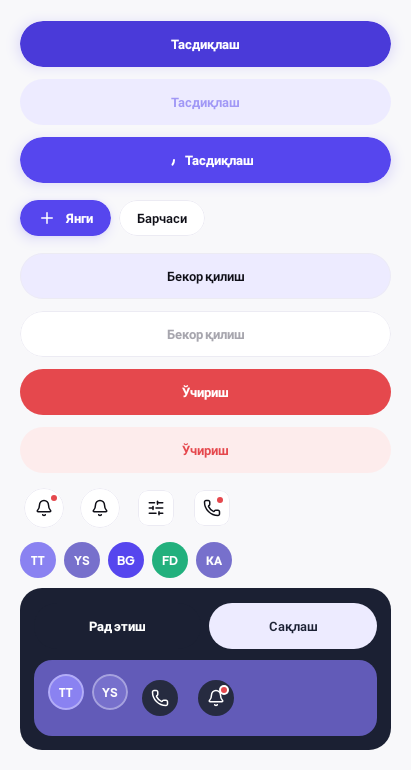
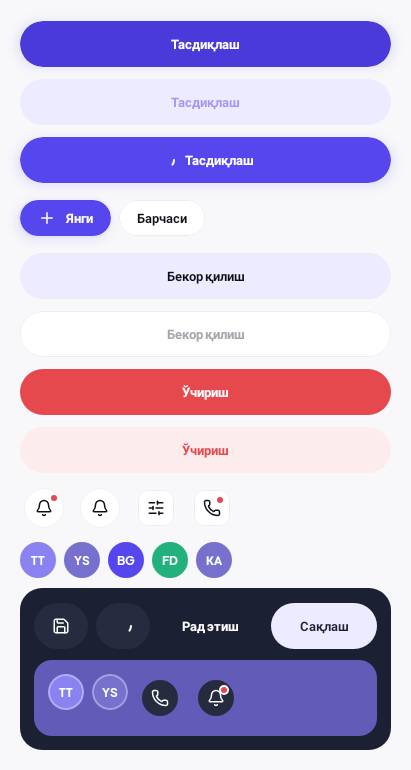
Feat(designsystem) · DarkButton takes loading
A DarkButton mid-action greyed itself out, because the only way to take the
click away was `enabled = false` — and the lavender "you cannot do this" skin is
the wrong thing to say about the action just tapped. It now draws the spinner in
place of its icon and keeps the navy2 fill, exactly as PrimaryButton has always
done.

The spacer after the spinner is now conditional on there being a label: an
icon-only pill (the calculator's save action) would otherwise sit its spinner
10 dp left of centre.

Changed region(s): [[0.438, 0.7792, 0.8467, 0.8416], [0.2044, 0.8104, 0.3504, 0.8416], [0.1168, 0.7792, 0.1752, 0.8416]]

diff --git a/android/core/designsystem/src/main/kotlin/uz/etalon/crm/core/designsystem/components/EtalonButtons.kt b/android/core/designsystem/src/main/kotlin/uz/etalon/crm/core/designsystem/components/EtalonButtons.kt
@@ -88,7 +88,9 @@ private fun EtalonButtonBase(
 @Composable
 private fun RowScope.ButtonBody(text: String?, loading: Boolean, leading: ImageVector?, leadingIcon: Int?, color: Color) {
     when {
-        loading -> { CircularProgressIndicator(Modifier.size(18.dp), strokeWidth = 2.dp, color = color); Spacer(Modifier.width(10.dp)) }
+        // The spacer is the gap to the LABEL, so a button with no label must not carry it — an
+        // icon-only DarkButton would otherwise sit its spinner 10 dp left of centre.
+        loading -> { CircularProgressIndicator(Modifier.size(18.dp), strokeWidth = 2.dp, color = color); if (text != null) Spacer(Modifier.width(10.dp)) }
         leadingIcon != null -> { EtalonIcon(leadingIcon, null, size = 18.dp, tint = color); if (text != null) Spacer(Modifier.width(10.dp)) }
         // Kept for the feature screens that still pass a Material vector; phases 2–5 move each of
         // them to `leadingIcon` as they are redrawn.
@@ -158,15 +160,23 @@ fun DangerButton(
     border = null, onDark = true,
 ) { ButtonBody(text, loading, leading, leadingIcon, if (enabled) EtalonColors.onDark else EtalonColors.red) }
 
-/** On navy: the quiet half of a pair («Рад этиш», the two icon actions on the summary sheet). */
+/**
+ * On navy: the quiet half of a pair («Рад этиш», the two icon actions on the summary sheet).
+ *
+ * @param loading the same distinction [PrimaryButton] draws, for the same reason: a working button
+ *   keeps its navy2 fill and its onDark content and only loses the click — greying it would say
+ *   «you cannot do this» about the very action just tapped. The spinner replaces [leadingIcon], so
+ *   an icon-only pill (the calculator's «Лойиҳани сақлаш») stays exactly the same size while it
+ *   saves.
+ */
 @Composable
 fun DarkButton(
     text: String? = null, onClick: () -> Unit, modifier: Modifier = Modifier,
-    enabled: Boolean = true, leadingIcon: Int? = null,
+    enabled: Boolean = true, loading: Boolean = false, leadingIcon: Int? = null,
 ) = EtalonButtonBase(
-    onClick = onClick, enabled = enabled, modifier = modifier, height = H_REGULAR, shape = EtalonShapes.pill,
+    onClick = onClick, enabled = enabled && !loading, modifier = modifier, height = H_REGULAR, shape = EtalonShapes.pill,
     fill = EtalonColors.navy2, pressedFill = EtalonColors.navy, border = null, onDark = true,
-) { ButtonBody(text, false, null, leadingIcon, EtalonColors.onDark) }
+) { ButtonBody(text, loading, null, leadingIcon, EtalonColors.onDark) }
 
 /** On navy: the affirmative half — white pill, navy text. Give it `Modifier.weight(1f)`. */
 @Composable

diff --git a/android/core/designsystem/src/test/kotlin/uz/etalon/crm/core/designsystem/ButtonsScreenshotTest.kt b/android/core/designsystem/src/test/kotlin/uz/etalon/crm/core/designsystem/ButtonsScreenshotTest.kt
@@ -103,6 +103,10 @@ private fun ButtonSheet() {
             verticalArrangement = Arrangement.spacedBy(10.dp),
         ) {
             Row(horizontalArrangement = Arrangement.spacedBy(8.dp)) {
+                // The icon-only pill and the same pill mid-save: the fill and the size do not move,
+                // only the glyph becomes the spinner (see DarkButton's `loading`).
+                DarkButton(onClick = {}, leadingIcon = EtalonIcons.Save)
+                DarkButton(onClick = {}, loading = true, leadingIcon = EtalonIcons.Save)
                 DarkButton("Рад этиш", onClick = {}, modifier = Modifier.weight(1f))
                 InverseButton("Сақлаш", onClick = {}, modifier = Modifier.weight(1f))
             }
